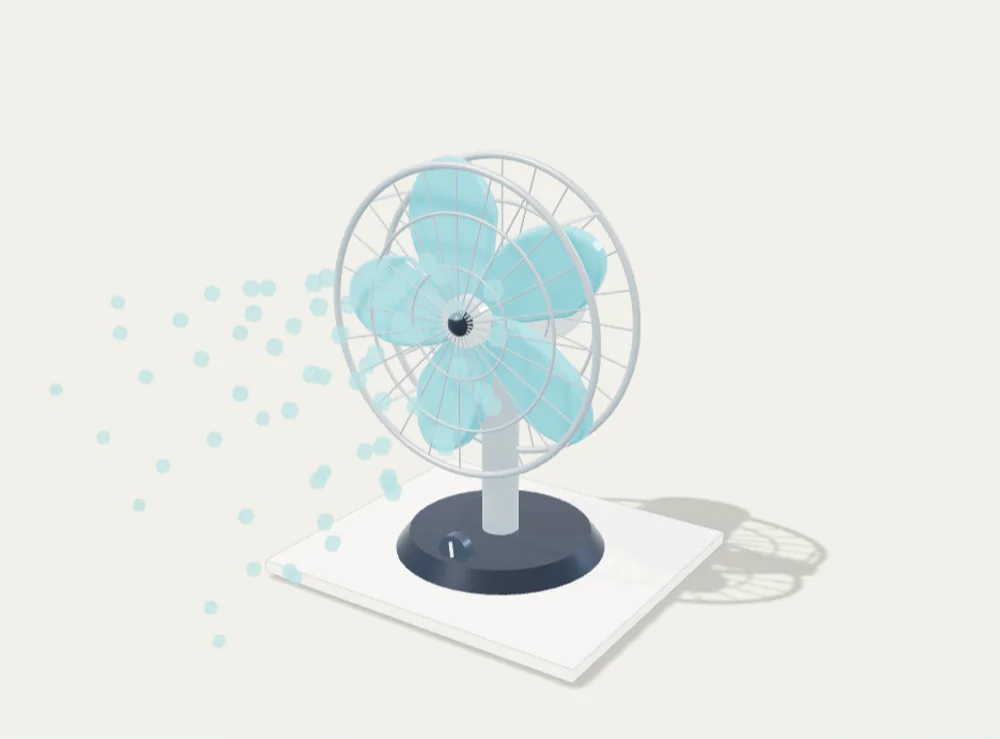
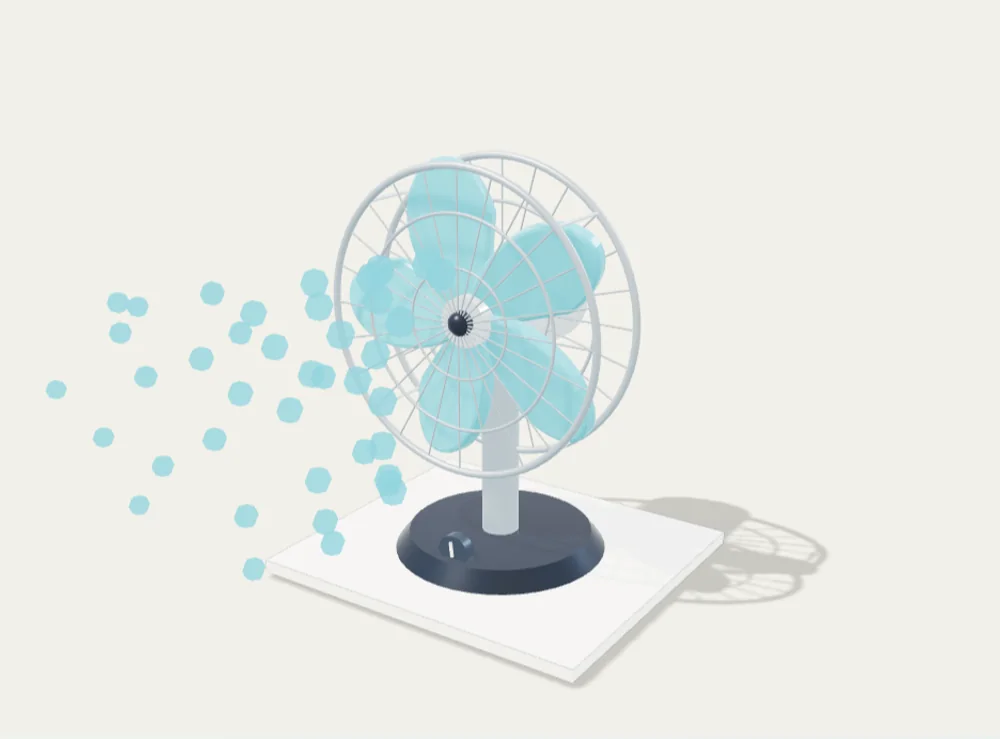
fix(android): improve airflow legibility and stabilize GPU screenshot assertions

diff --git a/src/three-viewer.js b/src/three-viewer.js
@@ -369,9 +369,10 @@ function makeFan(root){
  // One instanced draw call renders all flow particles. The airflow belongs
  // to the rotating head so oscillation also changes the wind direction.
  // The emitter stays hidden unless explicitly enabled AND the fan runs.
- const flowGeometry=new THREE.SphereGeometry(.054,6,4);
+ // Wider, higher-contrast dots remain legible at 320–390px mobile widths.
+ const flowGeometry=new THREE.SphereGeometry(.08,6,4);
  const flowMaterial=new THREE.MeshBasicMaterial({
-  color:0x71dce9,transparent:true,opacity:.65,depthWrite:false
+  color:0x4bbdd8,transparent:true,opacity:.78,depthWrite:false
  });
  const flow=new THREE.InstancedMesh(flowGeometry,flowMaterial,AIRFLOW_PARTICLE_COUNT);
  flow.count=airflowParticleBudget("auto");
